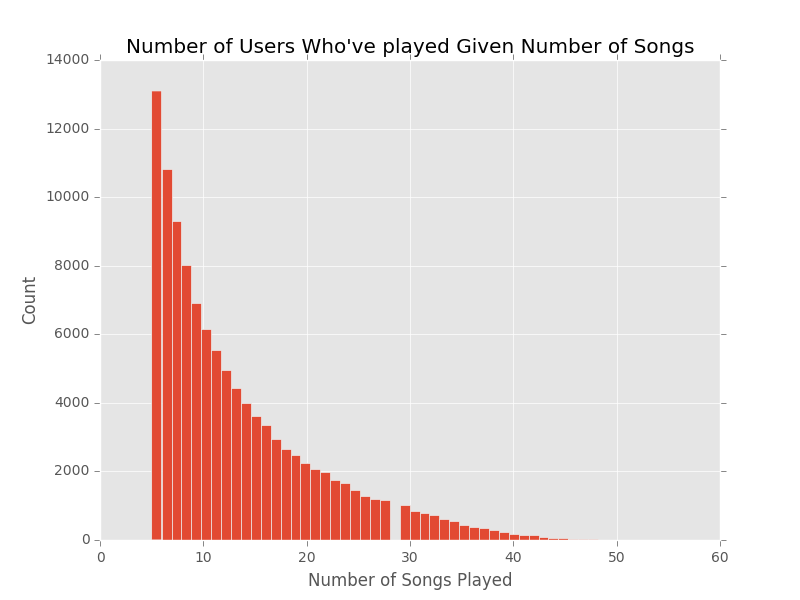
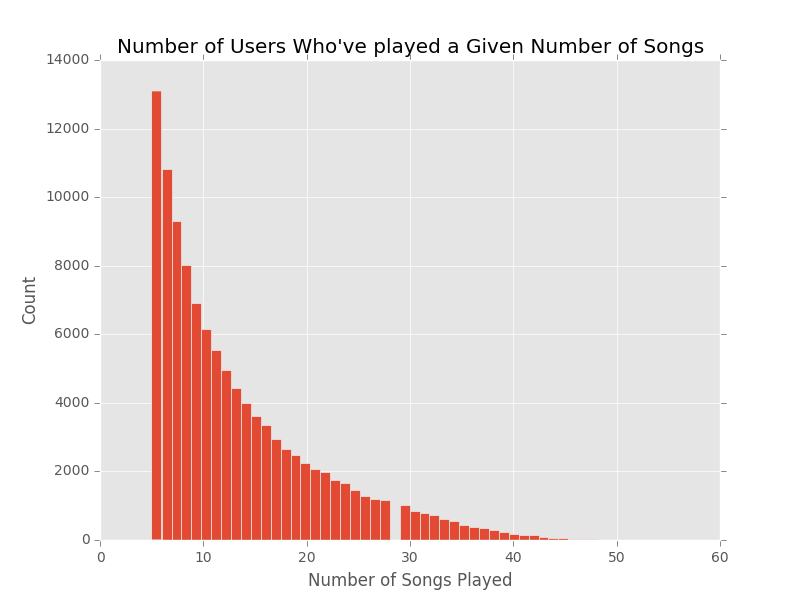
plots

Changed region(s): [[0.125, 0.06, 0.875, 0.09]]

diff --git a/DataFrames.py b/DataFrames.py
@@ -158,23 +158,6 @@ plt.xlabel("Number of Songs Played")
 plt.ylabel("Count")
 plt.show()
 
-#
-usercsum = usercount.groupby('plays').count().cumsum()
-usercsum = pd.DataFrame(usercsum).reset_index()
-#formatter = FuncFormatter(to_percent)
-#plt.gca().yaxis.set_major_formatter(formatter)
-#plt.show()
-
-usercsumlog = usercsum
-usercsumlog['plays'] = np.log10(usercsumlog['plays'])
-usercsumlog['user_id'] = usercsumlog['user_id']/usercsum['user_id'].max()
-usercsumlog.plot('plays','user_id')
-plt.title("CDF")
-plt.xlabel("Number of Songs Played (log scale)")
-plt.ylabel("Percentage of Users")
-formatter = FuncFormatter(to_percent)
-plt.gca().yaxis.set_major_formatter(formatter)
-plt.show()
 
 # histogram of number of user counts for songs
 songcount = eval.groupby('sid').count()
@@ -182,24 +165,41 @@ songcount = pd.DataFrame(songcount).reset_index()
 songvalues = songcount['plays'].values
 songvalues = np.log10(songvalues)
 plt.hist(songvalues,50)
-plt.title("histogram of number of plays for each songs")
-plt.xlabel("Number of user counts")
+plt.title("Number of Songs with a Given Number of Users")
+plt.xlabel("Number of Users")
 plt.ylabel("Count")
 plt.show()
 
-# cumulative sum for song counts vs users
-userplaycsum = userhist.sort('plays')
-userplaycsum['plays'] = userplaycsum['plays'].cumsum()
-userplaycsum['plays'] = userplaycsum['plays']/userplaycsum['plays'].max()
-userplaycsum = userplaycsum.reset_index(drop=True).reset_index()
-userplaycsum.plot('index', 'plays')
-plt.legend().set_visible(False)
-plt.title("Cumulative sum of plays for users")
-plt.ylabel("Perecentage of plays")
-plt.xlabel("Amount of users sorted with increasing amount of plays")
+
+#
+usercsum = usercount.groupby('plays').count().cumsum()
+usercsum = pd.DataFrame(usercsum).reset_index()
+usercsumlog = usercsum
+usercsumlog['plays'] = np.log10(usercsumlog['plays'])
+usercsumlog['user_id'] = usercsumlog['user_id']/usercsum['user_id'].max()
+usercsumlog.plot('plays','user_id')
+plt.title("Cumulative Sum of Songs Played by Users")
+plt.xlabel("Number of Songs Played (log scale)")
+plt.ylabel("Percentage of Users")
 formatter = FuncFormatter(to_percent)
 plt.gca().yaxis.set_major_formatter(formatter)
 plt.show()
+
+
+songcsum = songcount.groupby('plays').count().cumsum()
+songcsum = pd.DataFrame(songcsum).reset_index()
+songcsumlog = songcsum
+songcsumlog['plays'] = np.log10(songcsumlog['plays'])
+songcsumlog['sid'] = songcsumlog['sid']/songcsum['sid'].max()
+songcsumlog.plot('plays','sid')
+plt.title("Cumulative Sum of Users")
+plt.xlabel("Number of Users (log scale)")
+plt.ylabel("Percentage of Songs")
+formatter = FuncFormatter(to_percent)
+plt.gca().yaxis.set_major_formatter(formatter)
+plt.show()
+
+
 
 #cumulative sum of plays for artists
 #songcsum = songcount.groupby('plays').count().cumsum()
@@ -224,19 +224,6 @@ plt.show()
 #plt.title("Histogram of number of plays for each user in log10")
 #plt.xlabel("Number of plays in log10")
 #plt.ylabel("Count")
-#plt.show()
-
-# cumulative sum of plays for users
-#usercsum = userhist.groupby('plays').count().cumsum()
-#usercsum = pd.DataFrame(usercsum).reset_index()
-#usercsum.plot('plays','user_id')
-#plt.show()
-
-# cumulative sum for plays for users in log
-#usercsumlog = usercsum
-#usercsumlog['plays'] = np.log10(usercsumlog['plays'])
-#usercsumlog['user_id'] = usercsumlog['user_id']/usercsum['user_id'].max()
-#usercsumlog.plot('plays','user_id')
 #plt.show()
 
 # cumulative sum for plays vs users
